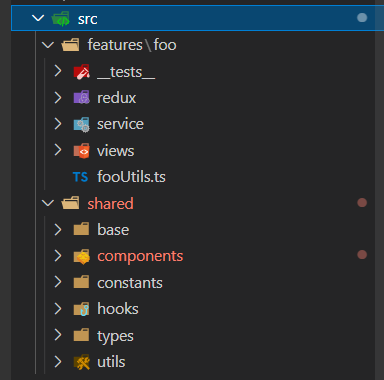
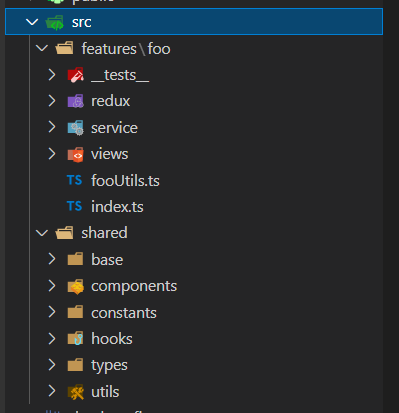
Setup boilerplate

Changed region(s): [[0.0, 0.0, 1.0, 1.0], [0.0938, 0.8684, 0.3438, 1.0], [0.3438, 0.9842, 0.375, 1.0]]

diff --git a/READMe.md b/READMe.md
@@ -1,8 +1,12 @@
 ## React native boilerplate
 
 - src
-  - collapsed
+  - folders
     - <img src="public/images/structureCollapsed.PNG">
+  - feature detaila
+    - <img src="public/images/srcFeatureDetails.PNG">
+  - shared detaila
+    - <img src="public/images/srcSharedDetails.PNG">
 - lint/formatter
   - prettierrc
   - eslintrc
